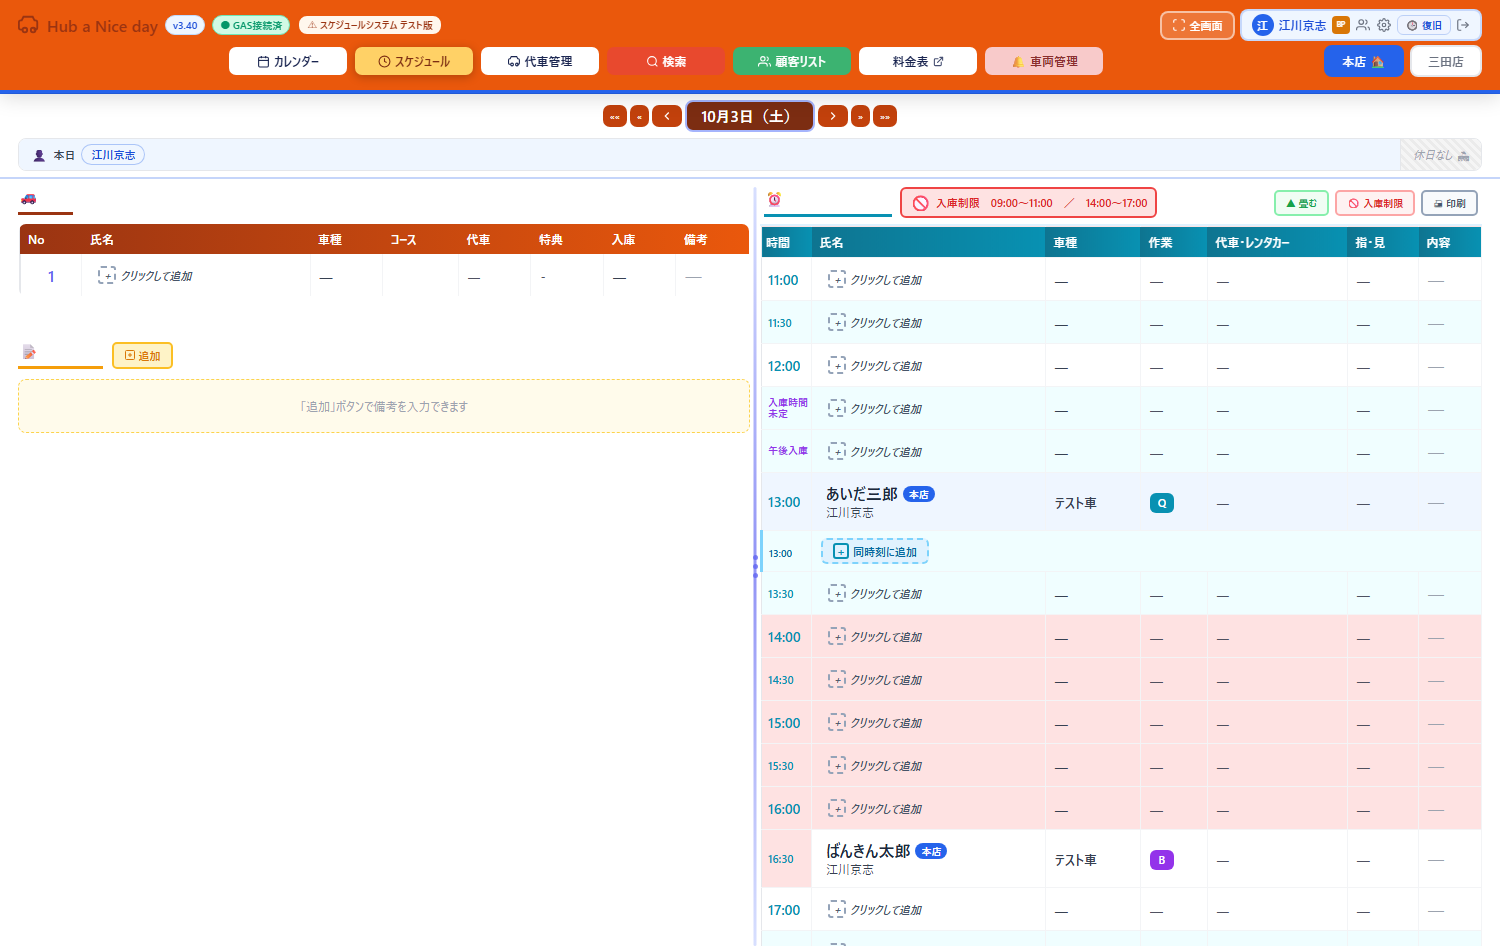
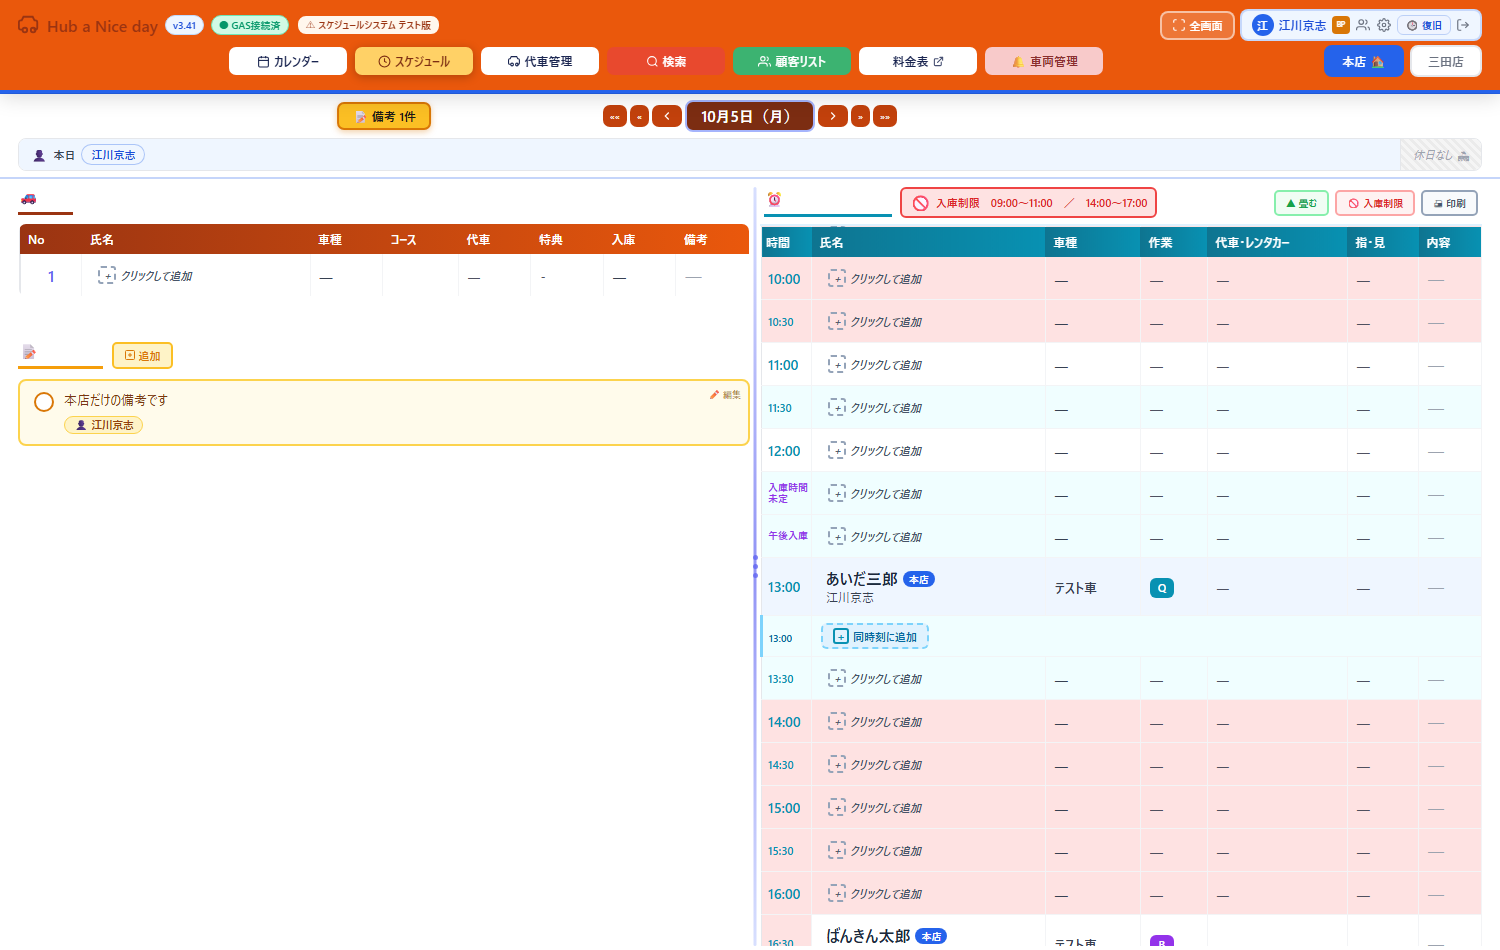
三田店に出ていた入庫制限を消す（10/4 の移し替えで両店へ写したのが原因）
- 本番・テスト版とも sanda-schedRestrictions を空にした（控えは Hub重要書類へ）。
- fb_split_restrictions.js は既定で本店だけに写すよう修正（--sanda で三田店にも）。
- restriction_save_test.js に「三田店に本店の備考メモが出ない」「本店では出る」を追加（15件）。
- 店をまたいで入庫制限・整備・備考メモを見せないことを CLAUDE.md に明記。

diff --git a/restriction_save_test.js b/restriction_save_test.js
@@ -41,6 +41,8 @@ const DK = `${now.getFullYear()}-${now.getMonth() + 1}-${now.getDate()}`;
     [STOR + 'insp']: {}, [STOR + 'honten-sched']: {}, [STOR + 'sanda-sched']: {},
     [STOR + 'honten-staff-v2']: [{ uid: 'h7', name: '江川京志', myNumber: 7, badge: 'bodywork', store: 'honten' }],
     [STOR + 'sanda-staff-v2']: [],
+    [STOR + 'honten-memo']: { [DK]: [{ content: '本店だけの備考です', by: '江川京志' }] },
+    [STOR + 'sanda-memo']: {},
     // 本番 10/3 と同じ形：2区間・鈑金(B)ほかが制限解除
     'honten-schedRestrictions': { [DK]: { ranges: [{ startTime: '09:00', endTime: '11:00' }, { startTime: '14:00', endTime: '17:00' }], exemptWorks: ['保', '納', '試', '商', 'B'] } },
   };
@@ -144,10 +146,12 @@ const DK = `${now.getFullYear()}-${now.getMonth() + 1}-${now.getDate()}`;
   // 「🚫 入庫制限」は設定ボタンの名前でもあるので、時間が付いた帯（例：入庫制限 09:00〜11:00）で見る
   const hasBand = () => page.evaluate(() => /入庫制限[s　]*[0-9]{1,2}:[0-9]{2}/.test(document.body.innerText));
   t('★三田店に切り替えると制限は出ない（店ごとに分かれている）', !(await hasBand()), await page.evaluate(() => document.body.innerText.slice(0, 160)));
+  t('★三田店に本店の備考メモが出ない', await page.evaluate(() => !/本店だけの備考です/.test(document.body.innerText)), await page.evaluate(() => document.body.innerText.slice(-200)));
   t('三田店では制限色の枠も無い', await page.evaluate(() => ![...document.querySelectorAll('tr')].some(r => getComputedStyle(r).backgroundColor === 'rgb(254, 226, 226)')));
   await page.evaluate(() => { const b = [...document.querySelectorAll('button')].find(e => e.innerText.trim().indexOf('本店') === 0 && e.offsetParent !== null); if (b) b.click(); });
   await page.waitForTimeout(1800);
   t('本店に戻すと制限が出る', await hasBand());
+  t('本店では備考メモが出る', await seeText(page, '本店だけの備考です', 6000));
 
   await page.screenshot({ path: path.join(DIR, 'smoke-restriction-save.png') });
   await browser.close(); server.close();

diff --git a/fb_split_restrictions.js b/fb_split_restrictions.js
@@ -3,7 +3,7 @@
 //   先： {STOR}honten-schedRestrictions / {STOR}sanda-schedRestrictions
 //   すでに店舗別のキーに中身がある時は触らない（上書きしない）。
 //   node fb_split_restrictions.js            … 今の状態を見るだけ
-//   node fb_split_restrictions.js --write    … 本番へ写す
+//   node fb_split_restrictions.js --write    … 本番の本店へ写す（--sanda で三田店にも）
 //   node fb_split_restrictions.js --write --dev … テスト版へ写す
 const fs = require('fs'), path = require('path');
 const KEY_FILE = process.env.HUB_FB_KEY || 'C:/Users/A/Documents/Hub重要書類/firebase-admin.json';
@@ -22,7 +22,10 @@ const days = o => (o && typeof o === 'object') ? Object.keys(o).length : 0;
   console.log((DEV ? 'テスト版' : '本番') + ' / ' + (WRITE ? '書き込みます' : '見るだけ（--write で書き込み）'));
   const old = await read(STOR + 'schedRestrictions');
   console.log('  元（両店共通）: ' + days(old) + '日ぶん');
-  for (const store of ['honten', 'sanda']) {
+  // ★既定は本店だけに写す（2026-10-05）。2026-10-04 に両店へ写してしまい、三田店に
+  //   本来いらない制限が出た。三田店にも入れたい時だけ --sanda を付ける。
+  const stores = (process.argv.indexOf('--sanda') >= 0) ? ['honten', 'sanda'] : ['honten'];
+  for (const store of stores) {
     const k = STOR + store + '-schedRestrictions';
     const cur = await read(k);
     const label = store === 'honten' ? '本店' : '三田店';

diff --git a/CLAUDE.md b/CLAUDE.md
@@ -219,8 +219,11 @@ This file provides guidance to Claude Code (claude.ai/code) when working with co
 ### 入庫制限は店舗ごと（v3.35・2026-10-04・ユーザー指示）
 - タイムスケジュール（整備）の予定は店ごとに立てるので、**入庫制限も店ごと**。**車検の台数制限（`inspLimits`）は今までどおり両店共通**。
 - キー：`honten-schedRestrictions` / `sanda-schedRestrictions`（PC は `useShared('honten-schedRestrictions')` を2本、スマホは MOBILE_KEYS に2つ）。見ている店（`vsId`）で選び分ける。
-- 元の共通キー `schedRestrictions` は**残してある（控え）**。中身は `node fb_split_restrictions.js --write`（`--dev` でテスト版）で**両店へ写し済み**（2026-10-04：テスト版3日ぶん・本番5日ぶん）。店ごとのキーに中身がある時は上書きしない。
-- 検査は `node restriction_save_test.js` の ④（本店で制限→三田店に切り替えると出ない→本店に戻すと出る）。
+- 元の共通キー `schedRestrictions` は**残してある（控え）**。中身は `node fb_split_restrictions.js --write`（`--dev` でテスト版）で写した。店ごとのキーに中身がある時は上書きしない。
+- **【やらかし】2026-10-04 に共通分を本店と三田店の両方へ写したため、三田店に本来いらない入庫制限が4日ぶん出ていた**（2026-10-05 ユーザー報告）。
+  三田店の分は 2026-10-05 に本番・テスト版とも空にした（消した中身の控え：`C:/Users/A/Documents/Hub重要書類/sanda-restrictions-removed-2026-10-05.json`）。`fb_split_restrictions.js` も**既定は本店だけ**に直した（三田店にも入れる時は `--sanda`）。
+- **店をまたいで見せない**：入庫制限・タイムスケジュール（整備）・備考メモは、見ている店（`vsId`）の分だけを出す。**他店の分は絶対に出さない**（2026-10-05 ユーザー指示。混乱のもと）。コードは PC・スマホとも `vsId==='honten'?…H:…S` で選び分けている。
+- 検査は `node restriction_save_test.js` の ④（本店で制限→三田店に切り替えると制限も備考メモも出ない→本店に戻すと両方出る）。
 
 ### 入庫制限は複数の時間帯を持てる（v3.25・2026-10-03・B案＋①）
 - **【重要】v3.25 の消し忘れで、制限を掛けた日は整備の予約が1件も保存できなくなっていた**（v3.33・2026-10-04 で修正）。
